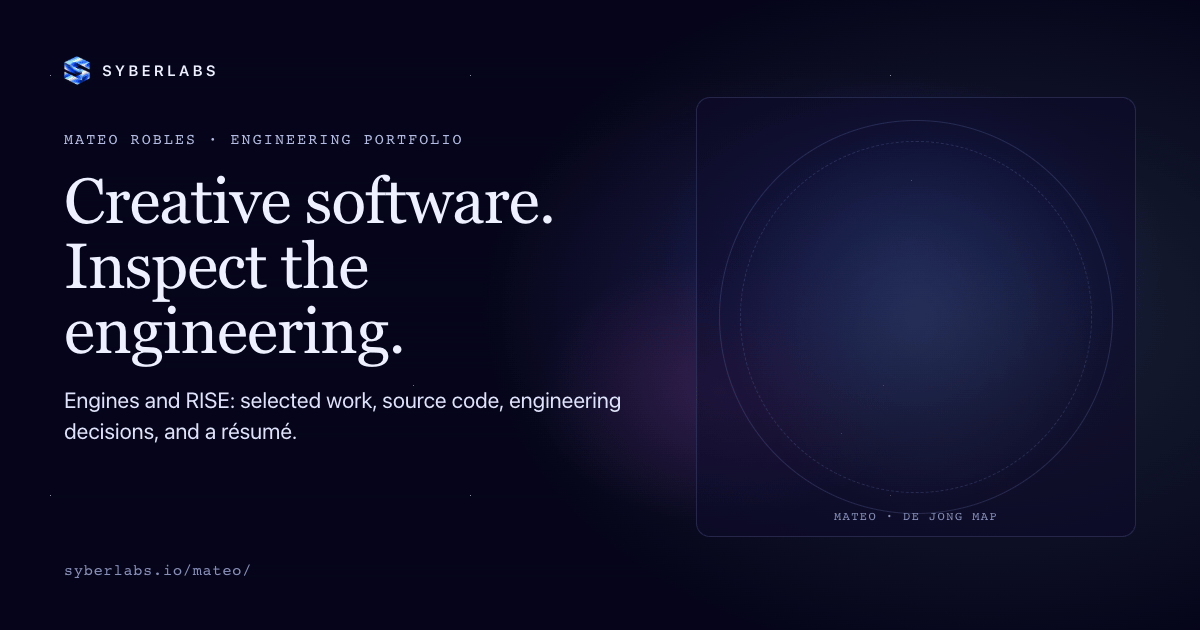
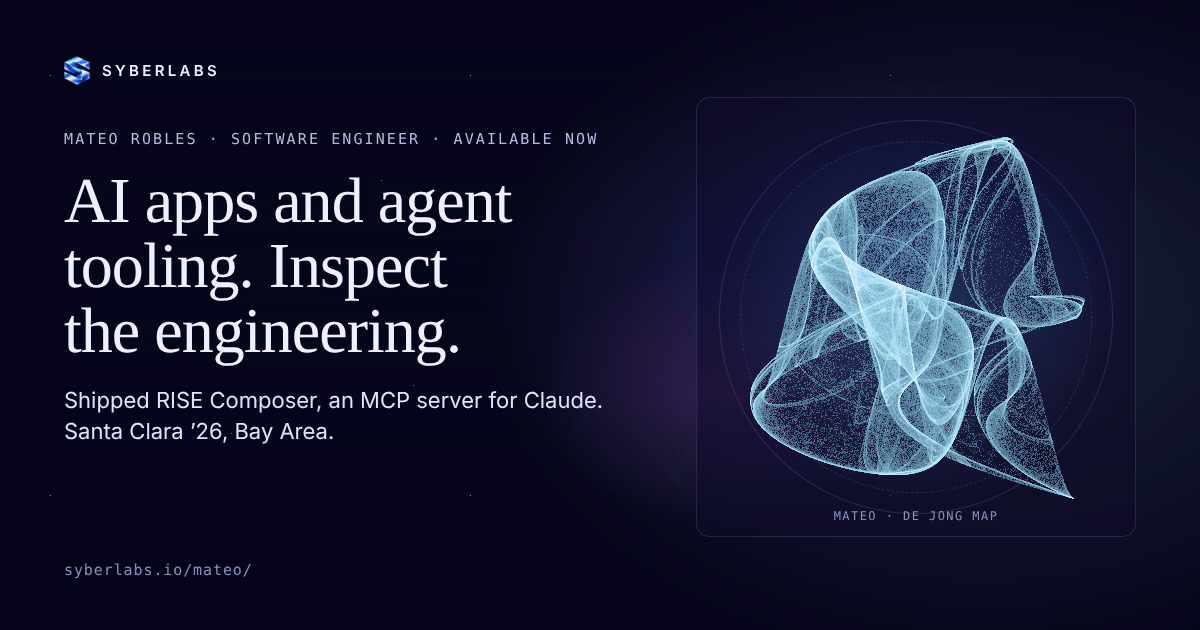
Lead /mateo with the role and RISE Composer (#137)
* Lead /mateo with the role and RISE Composer

The first screen of syberlabs.io/mateo now answers a recruiter's two
questions: what role, and what proof.

- Eyebrow: software engineer, Bay Area, available now
- Headline: AI apps and agent tooling (keeps "Engineering you can inspect")
- Lead: RISE Composer, the MCP server for Claude, and the role he wants
- Adds a Try RISE (1 min) button
- Meta, Open Graph and Twitter descriptions match; og/mateo.png
  re-rendered from the updated og-cards entry and its ?v= bumped

Claude-Session: https://claude.ai/code/session_011vVxMbGc2G3dzR7gdN3gAu

* Regenerate llms.txt for the new /mateo description

The build refuses stale llms files; `node scripts/llms.mjs` picks up the
updated meta description.

Claude-Session: https://claude.ai/code/session_011vVxMbGc2G3dzR7gdN3gAu

---------

diff --git a/mateo/index.html b/mateo/index.html
@@ -4,17 +4,17 @@
   <meta charset="utf-8">
   <meta name="viewport" content="width=device-width, initial-scale=1">
   <meta name="theme-color" content="#06051a">
-  <meta name="description" content="Mateo Robles builds creative software and applied AI systems. Explore Engines and RISE, inspect the code and engineering evidence, and download his résumé.">
+  <meta name="description" content="Software engineer for AI apps and agent tooling. Mateo Robles shipped RISE Composer, an MCP server for Claude. Santa Clara ’26, Bay Area, available now.">
   <link rel="canonical" href="https://syberlabs.io/mateo/">
   <meta property="og:type" content="website">
   <meta property="og:title" content="Mateo Robles — Engineering Portfolio | SyberLabs">
-  <meta property="og:description" content="Mateo Robles builds creative software and applied AI systems. Explore Engines and RISE, inspect the code and engineering evidence, and download his résumé.">
+  <meta property="og:description" content="Software engineer for AI apps and agent tooling. Mateo Robles shipped RISE Composer, an MCP server for Claude. Santa Clara ’26, Bay Area, available now.">
   <meta property="og:url" content="https://syberlabs.io/mateo/">
-  <meta property="og:image" content="https://syberlabs.io/og/mateo.png?v=20261011">
+  <meta property="og:image" content="https://syberlabs.io/og/mateo.png?v=20261023">
   <meta name="twitter:card" content="summary_large_image">
   <meta name="twitter:title" content="Mateo Robles — Engineering Portfolio | SyberLabs">
-  <meta name="twitter:description" content="Mateo Robles builds creative software and applied AI systems. Explore Engines and RISE, inspect the code and engineering evidence, and download his résumé.">
-  <meta name="twitter:image" content="https://syberlabs.io/og/mateo.png?v=20261011">
+  <meta name="twitter:description" content="Software engineer for AI apps and agent tooling. Mateo Robles shipped RISE Composer, an MCP server for Claude. Santa Clara ’26, Bay Area, available now.">
+  <meta name="twitter:image" content="https://syberlabs.io/og/mateo.png?v=20261023">
   <link rel="icon" href="/favicon-32x32.png?v=prism" type="image/png" sizes="32x32">
   <title>Mateo Robles — Engineering Portfolio | SyberLabs</title>
   <link rel="preconnect" href="https://fonts.googleapis.com">
@@ -44,11 +44,11 @@
   <main class="portfolio" id="main">
     <section class="portfolio-hero" aria-labelledby="portfolio-title">
       <div class="portfolio-hero__copy">
-        <p class="sy-eyebrow">Mateo Robles · Software engineering</p>
-        <h1 id="portfolio-title">Creative software.<br><em>Engineering you can inspect.</em></h1>
-        <p class="portfolio-lead">Browser experiences, applied AI, and the systems behind them. Mateo founded SyberLabs to build tools that make room for thought and creative work.</p>
+        <p class="sy-eyebrow">Mateo Robles · Software engineer · Bay Area · Available now</p>
+        <h1 id="portfolio-title">AI apps and agent tooling.<br><em>Engineering you can inspect.</em></h1>
+        <p class="portfolio-lead">Mateo shipped RISE Composer, an MCP server that lets Claude compose a reading with words, visuals and sound, and admits only what RISE can perform. He’s looking for a full-time role in AI or product engineering.</p>
         <p class="portfolio-meta">B.S. Computer Science, Data Science emphasis<br>Santa Clara University · 2026</p>
-        <div class="sy-actions"><a class="sy-btn sy-btn--solid" href="/mateo_robles_resume.pdf">Download résumé</a><a class="sy-btn sy-btn--line" href="mailto:hello.mateorobles@gmail.com">Contact Mateo</a></div>
+        <div class="sy-actions"><a class="sy-btn sy-btn--solid" href="/mateo_robles_resume.pdf">Download résumé</a><a class="sy-btn sy-btn--line" href="mailto:hello.mateorobles@gmail.com">Contact Mateo</a><a class="sy-btn sy-btn--line" href="https://rise.syberlabs.io/try/" rel="noopener">Try RISE (1 min) ↗</a></div>
         <p class="portfolio-links"><a href="https://github.com/sykosyber">GitHub ↗</a><a href="https://www.linkedin.com/in/automateon/">LinkedIn ↗</a><a href="https://mateo.syberlabs.space/">Personal site ↗</a></p>
       </div>
       <figure class="portfolio-art"><img src="/mateo/engines-gyre.webp" width="1000" height="1000" alt="A layered, multicolored attractor generated by Gyre, one of Mateo’s procedural art engines."><figcaption>Gyre · procedural art from Engines</figcaption></figure>
